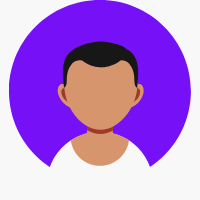
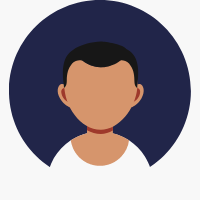
Update

diff --git a/styles/styles.css b/styles/styles.css
@@ -63,13 +63,13 @@ header nav ul li {
 	padding-right: 10px;
 	font-weight: bold;
 	font-family: 'Red Hat Display', sans-serif;
-	font-size: 19px;
+	font-size: 20px;
 	
 }
 
 header nav ul a {
 	text-decoration: none;
-	color: #7510F7;
+	color: #212549;
 }
 
 header nav ul li.menu-dropdown ul {
@@ -93,7 +93,7 @@ header nav ul li:hover{
 .menu a li {
 	margin: 0 1rem;
 	overflow: hidden;
-	background-color: #7510F7;
+	background-color: #212549;
 	color: #fff;
 	margin: 0 1rem;
 	overflow: hidden;
@@ -213,7 +213,7 @@ header nav ul li:hover{
 	  padding: 0.5em 0;
 	  width: 100%;
 	  color: white;
-	  background-color: #7510F7;
+	  background-color: #212549;
 	}
 	.menu > li:not(:last-child) {
 	  border-bottom: 1px solid #444;
@@ -301,7 +301,7 @@ header nav ul li:hover{
 #container-sobre {
 	width: 100%;
 	padding: 40px;
-	background-color: #7510F7;
+	background-color: #212549;
 }
 
 .sobre {
@@ -420,7 +420,7 @@ header nav ul li:hover{
 
 .ferramentas {
 	padding: 30px 0px 5px 0px;
-	color: #7510F7;
+	color: #212549;
 	font-family: 'Red Hat Display', sans-serif;
 	font-size: 19px;
 	font-weight: 700;
@@ -474,7 +474,7 @@ ul {
 	text-align: center;
 	font-family: 'Red Hat Display', sans-serif;
 	font-size: 30px;
-	color: #7510F7;
+	color: #212549;
 	font-weight: 900px;
 }
 
@@ -491,7 +491,7 @@ ul {
 .portfolio {
 	width: 27%;
 	padding: 60px;
-	box-shadow: 0px 0px 1px #761fe7;
+	box-shadow: 0px 0px 1px #212549;
 	background-color: rgb(241, 243, 243);
 	display: flex;
 	justify-content: center;
@@ -502,7 +502,7 @@ ul {
 
 .portfolio p {
 	align-items: center;
-	color: #7510F7;
+	color: #212549;
 	font-family: 'Red Hat Display', sans-serif;
 	font-size: 20px;
 	font-weight: bolder;
@@ -539,7 +539,7 @@ ul {
 
 .footer {
 	padding: 10px;
-	background-color: #7510F7;
+	background-color: #212549;
 }
 
 .footer-principal {
@@ -582,7 +582,7 @@ ul {
 	width: 38px;
 	height: 38px;
 	border-radius: 100%;
-	background-color: #7510F7;
+	background-color: #212549;
 	border-width: 1px;
   	border-style: solid;
   	border-color: #caacf1;
